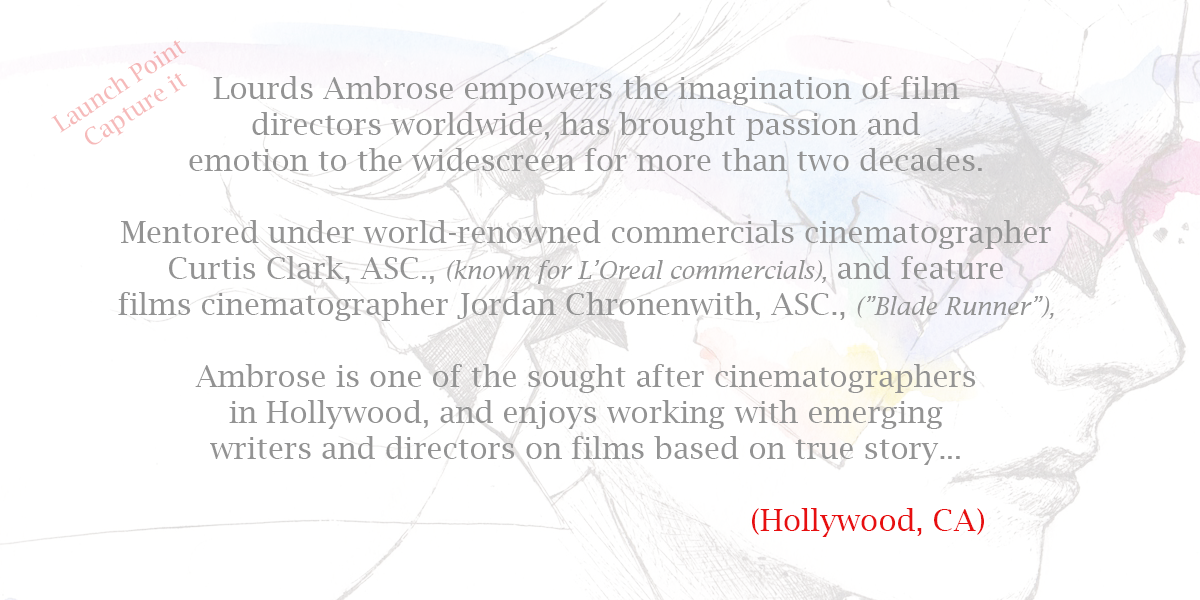
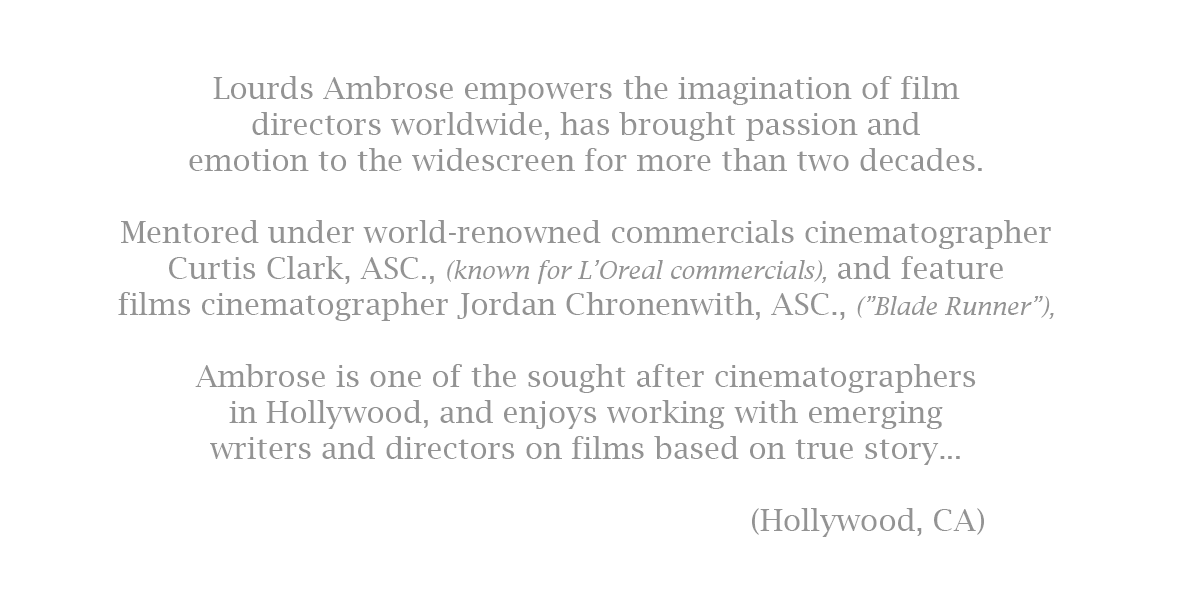
remove blur pic - 4th set should come last - removing scrolling - match the size interface buttons

diff --git a/index.html b/index.html
@@ -24,7 +24,6 @@
       display: flex;
       justify-content: center;
       gap: 15px;
-      margin-top: 20px;
     }
 
     #icon-image {
@@ -123,12 +122,16 @@
       cursor: pointer;
       border-radius: 50%;
       border: none;
+      line-height: 0;
     }
+
+
+
   </style>
 </head>
 
 <body>
-  <div class="text-center py-5" style="background-color: #fff;">
+  <div class="text-center" style="background-color: #fff;">
     <!-- Main Image -->
     <div class="row justify-content-center m-0 p-0">
       <div class="col-md-12 m-0 p-0 position-relative text-center">
@@ -159,16 +162,16 @@
       </button>
 
       <!-- reel button -->
-      <a><i class="fa fa-film links" style="font-size:30px; cursor: pointer;" onclick="openVideo()" ></i> </a>
+      <a><i class="fa fa-film links" style="font-size:24px; cursor: pointer;" onclick="openVideo()" ></i> </a>
 
       <!-- Home button -->
       <a href="#" onclick="goHome()">
-        <i class="fa fa-home links" style="font-size:36px;"></i>
+        <i class="fa fa-home links" style="font-size:30px;"></i>
       </a>
    
       <!-- Email button -->
       <a target="_blank" href="https://mail.google.com/mail/u/0/?ogbl#inbox">
-        <i class="fa fa-envelope links" style="font-size:32px;"></i>
+        <i class="fa fa-envelope links" style="font-size:26px;"></i>
       </a>
 
       <!-- Right Arrow -->
@@ -277,19 +280,18 @@
       image = document.getElementById("movingImage");
       images = [
         "images/0A-black-white-Landing-page.png",
-        "images/0B-Color-Landing-page-Blur.png",
         "images/0B-Color-Landing-page-Sharp.png",
         "images/1A-Hello.png",
         "images/1B-Hello.png",
         "images/1C-Hello.png",
         "images/2A-Imagine.png",
-        "images/4A-Buzz.png",
-        "images/4B-Buzz.png",
-        "images/4C-Buzz.png",
         "images/5A-Trending.png",
         "images/5C-Trending.png",
         "images/5D-Trending.png",
-        "images/6A-Empower.png"
+        "images/6A-Empower.png",
+        "images/4A-Buzz.png",
+        "images/4B-Buzz.png",
+        "images/4C-Buzz.png"
       ];
 
       image.addEventListener("mouseenter", stopImageTransition); // Stop on hover

diff --git a/index2.html b/index2.html
@@ -24,7 +24,6 @@
       display: flex;
       justify-content: center;
       gap: 15px;
-      margin-top: 20px;
     }
 
     #icon-image {
@@ -123,12 +122,16 @@
       cursor: pointer;
       border-radius: 50%;
       border: none;
+      line-height: 0;
     }
+
+
+
   </style>
 </head>
 
 <body>
-  <div class="text-center py-5" style="background-color: #fff;">
+  <div class="text-center" style="background-color: #fff;">
     <!-- Main Image -->
     <div class="row justify-content-center m-0 p-0">
       <div class="col-md-12 m-0 p-0 position-relative text-center">
@@ -159,16 +162,16 @@
       </button>
 
       <!-- reel button -->
-      <a><i class="fa fa-film links" style="font-size:30px; cursor: pointer;" onclick="openVideo()" ></i> </a>
+      <a><i class="fa fa-film links" style="font-size:24px; cursor: pointer;" onclick="openVideo()" ></i> </a>
 
       <!-- Home button -->
       <a href="#" onclick="goHome()">
-        <i class="fa fa-home links" style="font-size:36px;"></i>
+        <i class="fa fa-home links" style="font-size:30px;"></i>
       </a>
    
       <!-- Email button -->
       <a target="_blank" href="https://mail.google.com/mail/u/0/?ogbl#inbox">
-        <i class="fa fa-envelope links" style="font-size:32px;"></i>
+        <i class="fa fa-envelope links" style="font-size:26px;"></i>
       </a>
 
       <!-- Right Arrow -->
@@ -277,19 +280,18 @@
       image = document.getElementById("movingImage");
       images = [
         "images/0A-black-white-Landing-page.png",
-        "images/0B-Color-Landing-page-Blur.png",
         "images/0B-Color-Landing-page-Sharp.png",
         "images/1A-Hello.png",
         "images/1B-Hello.png",
         "images/1C-Hello.png",
         "images/2A-Imagine.png",
-        "images/4A-Buzz.png",
-        "images/4B-Buzz.png",
-        "images/4C-Buzz.png",
         "images/5A-Trending.png",
         "images/5C-Trending.png",
         "images/5D-Trending.png",
-        "images/6A-Empower.png"
+        "images/6A-Empower.png",
+        "images/4A-Buzz.png",
+        "images/4B-Buzz.png",
+        "images/4C-Buzz.png"
       ];
 
       image.addEventListener("mouseenter", stopImageTransition); // Stop on hover
